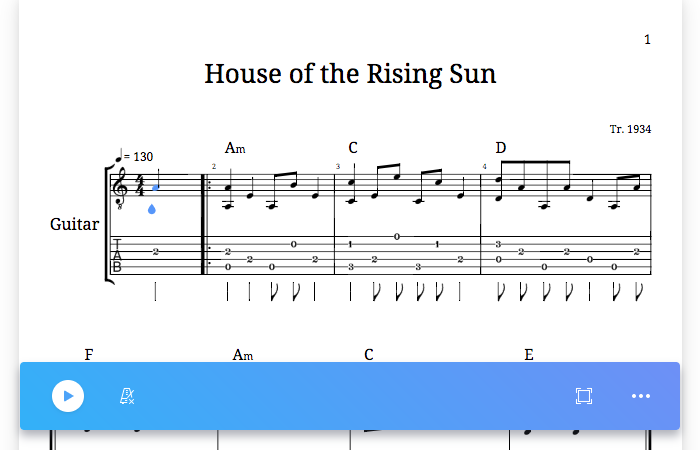
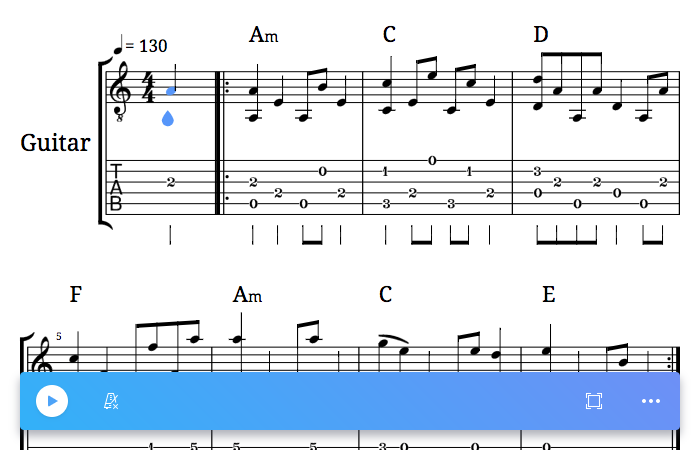
docs(embed): default layout mode to responsive

diff --git a/assets/css/doc.less b/assets/css/doc.less
@@ -30,8 +30,8 @@
   }
 }
 
-h1 {
-  margin-bottom: 30px;
+h1, .title {
+  margin-bottom: 15px;
   font-weight: bold;
   font-size: 24px;
   line-height: 30px;
@@ -131,7 +131,7 @@ h1 {
     color: @code-inline;
     white-space: nowrap;
   }
-  pre.highlight {
+  pre {
     overflow: auto;
     background-color: #1E1C35;
     padding: 15px;

diff --git a/assets/css/common.less b/assets/css/common.less
@@ -26,7 +26,7 @@ p {
   font-weight: 400;
 }
 
-body {
+html, body {
   font-family: Raleway, Helvetica Neue, Helvetica, Arial, sans-serif;
   background: #F3F5F8;
   margin: 0;

diff --git a/docs/embed/url-parameters.md b/docs/embed/url-parameters.md
@@ -21,7 +21,7 @@ These URL query strings control the engraving display of your music scores. You 
 
 | Query Parameter | Summary | Values |
 |:----------------|:--------|:-------|
-| [`layout`](#change-the-music-engraving-layout-mode-layout) | Display the score in page or track mode | `track` or `page` (default = `track`) |
+| [`layout`](#change-the-music-engraving-layout-mode-layout) | Display the score in responsive, page or track mode | `responsive`, `page` or `track` (default = `responsive`) |
 | [`zoom`](#change-zoom-scaling-zoom) | Default zoom value | `auto` or `0.1` to `3` (default = `auto`)|
 
 ## Loading modules
@@ -67,15 +67,19 @@ The following features require an Embed API Key to be used.
 
 ### Change the music engraving layout mode (`layout`)
 
-We support two different engraving modes:
+We support three different engraving modes:
 
-* `track` (default)
+* `responsive`
 
-![Layout page mode]({{site.baseurl}}/assets/img/embed-layout-track.png)
+![Layout Responsive mode]({{site.baseurl}}/assets/img/embed-layout-responsive.png)
 
 * `page`
 
 ![Layout Page mode]({{site.baseurl}}/assets/img/embed-layout-page.png)
+
+* `track` (default)
+
+![Layout page mode]({{site.baseurl}}/assets/img/embed-layout-track.png)
 
 ### Change zoom scaling (`zoom`)
 

diff --git a/docs/embed/introduction.md b/docs/embed/introduction.md
@@ -9,7 +9,7 @@ Flat is the most advanced music notation software on the web. Our products inclu
 
 Flat's Music notation Embed lets the visitors and users of your website view, edit, listen and print sheet music directly in your web pages with a complete customization and endless possibilities. Discover a non-customized version of our embed to experience it:
 
-<iframe src="https://flat.io/embed/56ae21579a127715a02901a6?layout=page" allowfullscreen height="450" width="100%" frameBorder="0"></iframe>
+<iframe src="https://flat.io/embed/56ae21579a127715a02901a6" allowfullscreen height="450" width="100%" frameBorder="0"></iframe>
 
 ## Flat's Technology
 

diff --git a/docs/embed/getting-started.md b/docs/embed/getting-started.md
@@ -1,0 +1,6 @@
+---
+title: Getting started with our Music engraving Embed
+description: Discover how to quickly get started with our Sheet music embed.
+permalink: embed/getting-started.html
+pid: embed-start
+---
